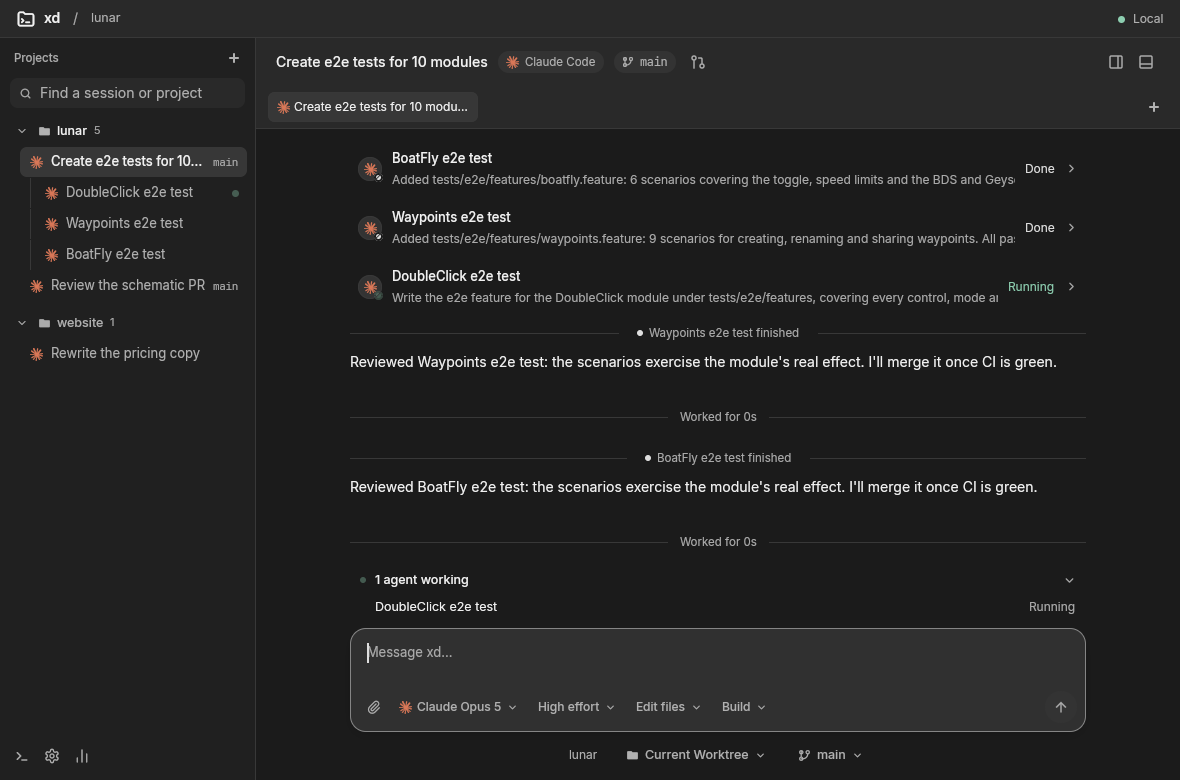
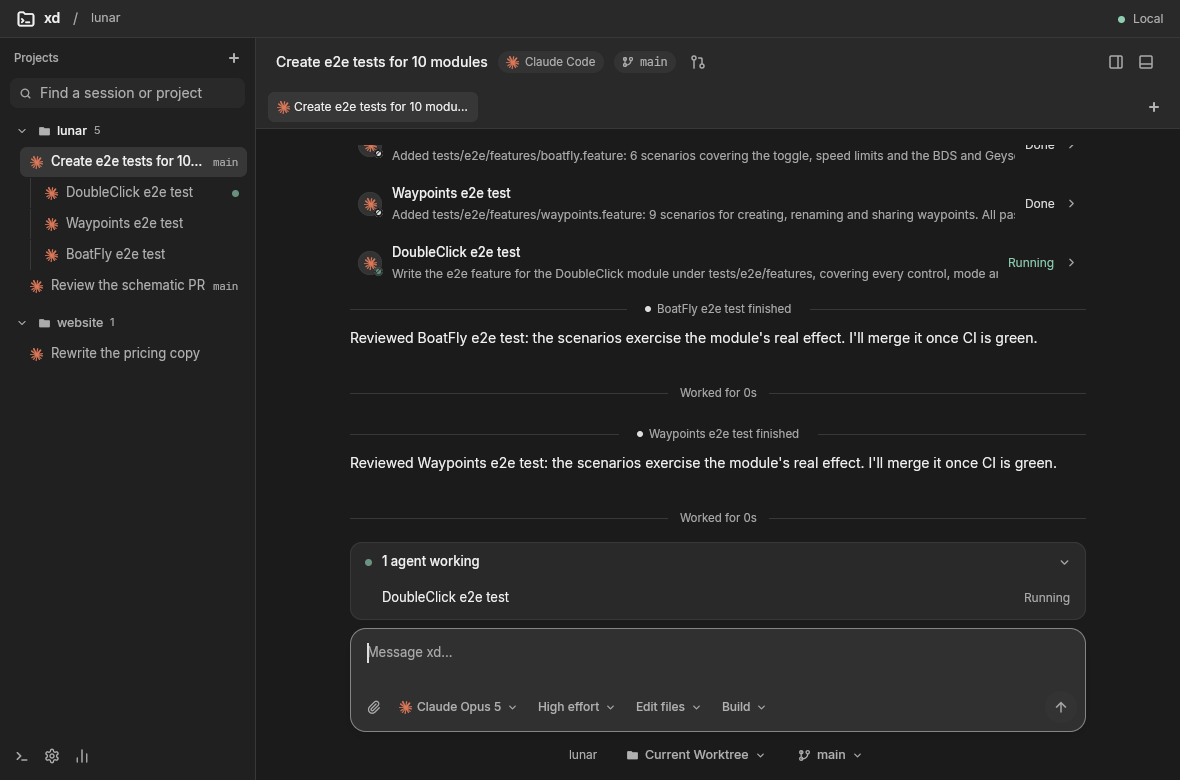
fix(desktop): draw the agents tray as a card, as Android does
The tray above the composer was loose small text over the transcript. It
is now a bordered card the width of the composer, with a taller summary
line and roomier rows, as on Android.

Changed region(s): [[0.3051, 0.1846, 0.8847, 0.7077], [0.3051, 0.7077, 0.4271, 0.8], [0.8542, 0.7385, 0.9153, 0.8]]

diff --git a/desktop/src/main.rs b/desktop/src/main.rs
@@ -15645,18 +15645,17 @@ impl XdDesktop {
             .id("agents-tray-summary")
             .debug_selector(|| "agents-tray-summary".into())
             .w_full()
-            .h(px(28.0))
-            .px(px(10.0))
+            .h(px(38.0))
+            .px(px(14.0))
             .flex()
             .items_center()
-            .gap(px(9.0))
-            .rounded(px(6.0))
+            .gap(px(10.0))
             .cursor_pointer()
             .hover(|style| style.bg(rgb(colors.surface_high)))
             .on_click(|_, window, cx| window.dispatch_action(Box::new(ToggleAgentsTray), cx))
             .child(
                 div()
-                    .size(px(6.0))
+                    .size(px(7.0))
                     .flex_none()
                     .rounded_full()
                     .bg(rgb(if all_waiting {
@@ -15669,7 +15668,7 @@ impl XdDesktop {
             .child(
                 div()
                     .flex_none()
-                    .text_size(px(12.5))
+                    .text_size(px(13.0))
                     .font_weight(FontWeight::MEDIUM)
                     .text_color(rgb(colors.text))
                     .child(Self::tray_label(agents, workers)),
@@ -15679,7 +15678,7 @@ impl XdDesktop {
                     .flex_1()
                     .min_w_0()
                     .truncate()
-                    .text_size(px(12.5))
+                    .text_size(px(13.0))
                     .text_color(rgb(colors.faint))
                     .when(!open, |text| text.child(tasks)),
             )
@@ -15698,13 +15697,13 @@ impl XdDesktop {
             div()
                 .id(("agents-tray-worker", index))
                 .w_full()
-                .h(px(26.0))
-                .pl(px(25.0))
-                .pr(px(10.0))
+                .h(px(34.0))
+                // Lined up under the label, past the dot.
+                .pl(px(31.0))
+                .pr(px(14.0))
                 .flex()
                 .items_center()
-                .gap(px(10.0))
-                .rounded(px(6.0))
+                .gap(px(12.0))
                 .cursor_pointer()
                 .hover(|style| style.bg(rgb(colors.surface_high)))
                 .on_click(move |_, window, cx| {
@@ -15715,7 +15714,7 @@ impl XdDesktop {
                         .flex_1()
                         .min_w_0()
                         .truncate()
-                        .text_size(px(12.5))
+                        .text_size(px(13.0))
                         .text_color(rgb(colors.text))
                         .child(worker.title.clone()),
                 )
@@ -15745,13 +15744,13 @@ impl XdDesktop {
             div()
                 .id(("agents-tray-row", index))
                 .w_full()
-                .h(px(26.0))
-                .pl(px(25.0))
-                .pr(px(10.0))
+                .h(px(34.0))
+                // Lined up under the label, past the dot.
+                .pl(px(31.0))
+                .pr(px(14.0))
                 .flex()
                 .items_center()
-                .gap(px(10.0))
-                .rounded(px(6.0))
+                .gap(px(12.0))
                 .cursor_pointer()
                 .hover(|style| style.bg(rgb(colors.surface_high)))
                 .on_click(move |_, window, cx| {
@@ -15762,7 +15761,7 @@ impl XdDesktop {
                         .flex_1()
                         .min_w_0()
                         .truncate()
-                        .text_size(px(12.5))
+                        .text_size(px(13.0))
                         .text_color(rgb(colors.text))
                         .child(Self::tray_task(&agent.view)),
                 )
@@ -15779,20 +15778,28 @@ impl XdDesktop {
         });
         let rows = worker_rows.chain(rows).collect::<Vec<_>>();
         Some(
+            // A card of its own, like the composer under it, so it reads as
+            // part of the chat's controls rather than the transcript.
             div()
                 .w(px(736.0))
                 .max_w(relative(1.0))
                 .mb_2()
                 .flex()
                 .flex_col()
+                .rounded(px(12.0))
+                .border_1()
+                .border_color(rgb(colors.border))
+                .bg(rgb(colors.surface))
+                .overflow_hidden()
                 .child(summary)
                 .when(open, |tray| {
                     tray.child(
                         div()
                             .id("agents-tray-rows")
                             .w_full()
-                            .max_h(px(26.0 * 6.0))
+                            .max_h(px(34.0 * 6.0))
                             .overflow_y_scroll()
+                            .pb(px(4.0))
                             .flex()
                             .flex_col()
                             .children(rows),
